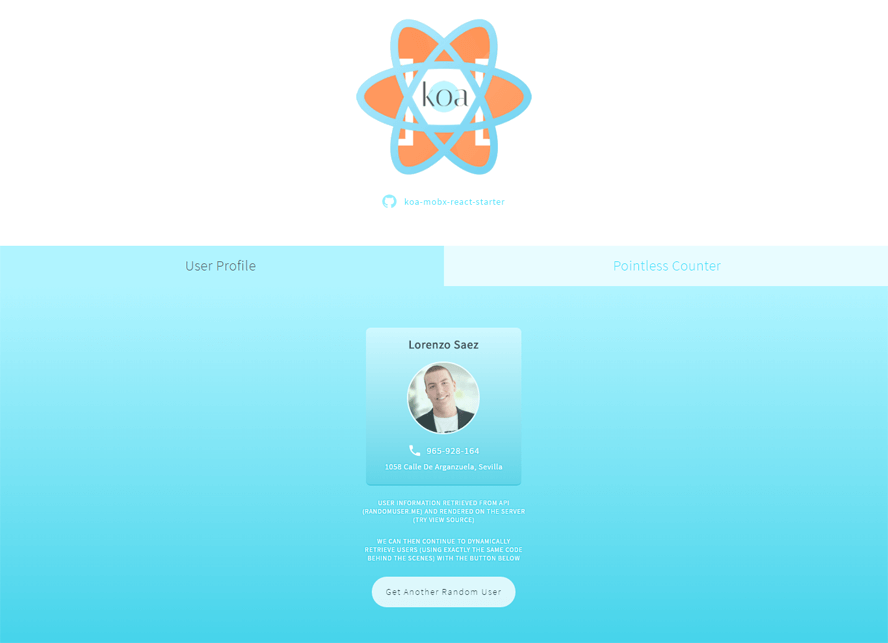
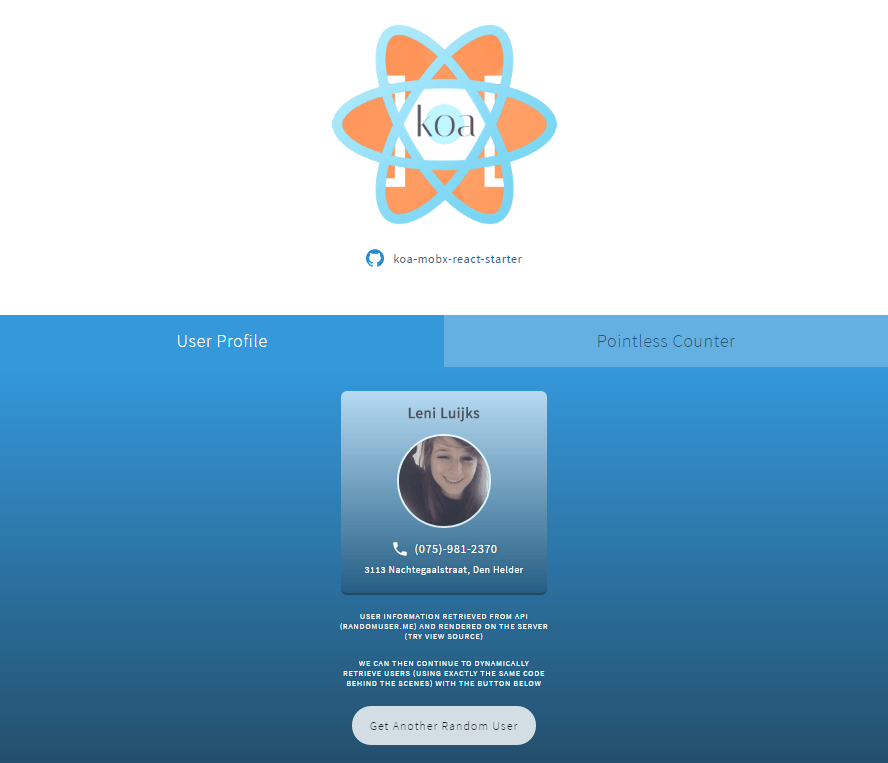
color change. blue was too bright

diff --git a/src/client/styles/app/app.scss b/src/client/styles/app/app.scss
@@ -83,7 +83,7 @@ body {
 
       &.selected {
         background: $primary-light-blue;
-        color: $primary-text;
+        color: white;
       }
     }
   }
@@ -105,7 +105,7 @@ body {
 .content-block {
   position: relative;
   color: white;
-  text-shadow: 0 0 4px darken($primary-light-blue, 40);
+  text-shadow: 0 0 4px darken($primary-light-blue, 20);
   display: flex;
   flex-direction: column;
   align-items: center;
@@ -115,7 +115,6 @@ body {
   display: inline-block;
   font-size: 1.5em;
   color: white;
-  text-shadow: 0 0 4px darken($primary-light-blue, 30);
   padding: 1em;
   border: 3px solid white;
   border-radius: 5em;
@@ -127,12 +126,12 @@ body {
   align-items: center;
   margin-top: 2em;
   border-bottom: 3px solid desaturate(darken($primary-light-blue, 27), 30);
-  color: $primary-text;
+  color: $primary-text-dark;
   padding: 1em 2em;
   border-radius: 0.5em;
   text-transform: capitalize;
-  text-shadow: 0 0 4px darken($primary-light-blue, 40);
-  background: linear-gradient(to bottom, lighten($primary-light-blue, 6), desaturate(darken($primary-light-blue, 20), 25));
+  text-shadow: 0 0 4px darken($primary-light-blue, 20);
+  background: linear-gradient(to bottom, lighten($primary-light-blue, 30), desaturate(darken($primary-light-blue, 20), 15));
 
   opacity: 1;
   transition: opacity 0.4s ease-in-out;

diff --git a/src/client/styles/common/_variables.scss b/src/client/styles/common/_variables.scss
@@ -1,3 +1,3 @@
-$primary-text: #445861;
-$primary-light-blue: #b0f4ff;
+$primary-text-dark: #4d545f;
+$primary-light-blue: #3498db;
 $retro-purple: #ee4679;
